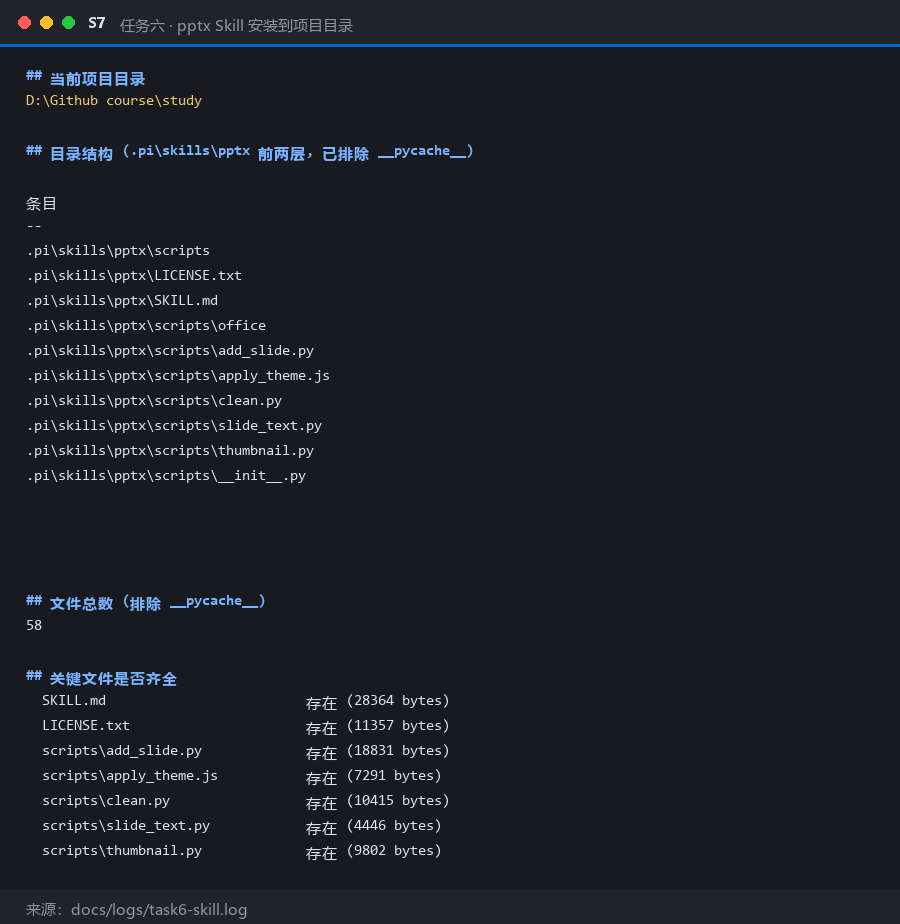
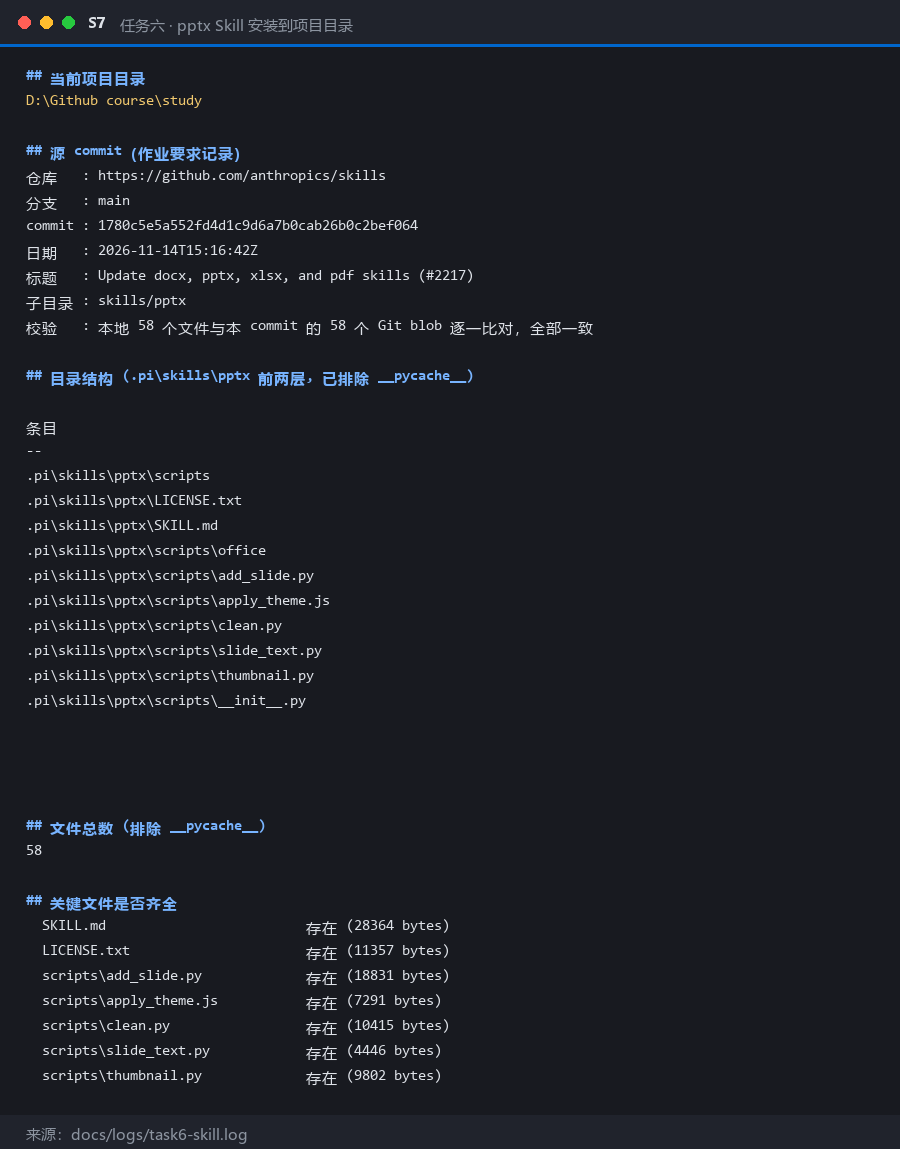
补任务四B 的真实剪贴板粘贴证据（S5a/S5b），补源 commit 记录，修正任务三逐字回复

diff --git a/tools/tui-paste.py b/tools/tui-paste.py
@@ -1,0 +1,146 @@
+"""Capture Pi's real TUI for the clipboard-paste (Alt+V) evidence: S5a / S5b.
+
+Why this exists
+---------------
+The assignment asks for the clipboard route, not the `@file` route:
+"先截取图片内容到剪贴板，不要只复制图片文件的路径" and
+"确认出现图片附件或图片输入提示".
+
+Pi only paints its UI on a real TTY (piping `pi --verbose` yields 0 bytes), so we
+spawn Pi inside a ConPTY (winpty), put the *bitmap* of a PNG onto the Windows
+clipboard (Clipboard.SetImage, NOT a path string), press Alt+V, and rebuild the
+screen from the captured escape stream with pyte.
+
+What Pi does with a clipboard image
+-----------------------------------
+`interactive-mode.js` -> `handleClipboardPaste()`: if the clipboard holds a file
+path it inserts that path; else if it holds an image it writes the bytes to
+`os.tmpdir()/pi-clipboard-<uuid>.png` and inserts *that* path into the editor.
+So the appearance of `pi-clipboard-<uuid>.png` in the input box IS Pi's own
+"image attached" indicator — that is the S5b frame.
+
+Usage
+-----
+    python tui-paste.py <cwd> <png> <out-prefix> <model> [attach|full]
+
+    attach : paste + type prompt, do NOT send  -> S5b
+    full   : paste + type prompt + Enter        -> S5a (includes model reply)
+
+Outputs `<out-prefix>-raw.txt` (raw bytes with escapes) and `<out-prefix>.txt`
+(clean screen text). Render to PNG with `tools/render-tui.py`.
+"""
+import os
+import queue
+import re
+import subprocess
+import sys
+import threading
+import time
+
+from winpty import PtyProcess
+
+PI = os.path.join(os.path.expanduser("~"), ".pi", "agent", "bin", "pi.cmd")
+PROMPT = "请描述图片中的颜色、形状和数字。"
+
+
+def strip_ansi(text: str) -> str:
+    """Drop CSI / OSC escape sequences so the stream is greppable."""
+    text = re.sub(r"\x1b\][^\x07\x1b]*(?:\x07|\x1b\\)", "", text)
+    text = re.sub(r"\x1b\[[0-9;?]*[ -/]*[@-~]", "", text)
+    text = re.sub(r"\x1b[@-Z\\-_]", "", text)
+    return text
+
+
+def put_image_on_clipboard(png: str) -> str:
+    """Put the actual bitmap on the clipboard (GraphicsContext needs STA)."""
+    script = (
+        "Add-Type -AssemblyName System.Windows.Forms;"
+        "Add-Type -AssemblyName System.Drawing;"
+        f"$img=[System.Drawing.Image]::FromFile('{os.path.abspath(png)}');"
+        "[System.Windows.Forms.Clipboard]::SetImage($img);"
+        "$img.Dispose();"
+        "Write-Output ('clipboard ' + [System.Windows.Forms.Clipboard]::ContainsImage())"
+    )
+    r = subprocess.run(["powershell", "-STA", "-NoProfile", "-Command", script],
+                       capture_output=True, text=True)
+    return r.stdout.strip()
+
+
+def capture(cwd: str, png: str, out_prefix: str, model: str,
+            mode: str = "full", cols: int = 150, rows: int = 48) -> None:
+    print("clipboard:", put_image_on_clipboard(png))
+
+    env = dict(os.environ)
+    env["TERM"] = "xterm-256color"
+    env["PYTHONIOENCODING"] = "utf-8"
+    # NOTE: do NOT pass --verbose here; the startup help fills the screen and
+    # covers the input box, which is exactly what we need to see.
+    p = PtyProcess.spawn([PI, "--model", model], cwd=cwd, env=env,
+                         dimensions=(rows, cols))
+
+    q, stop = queue.Queue(), threading.Event()
+
+    def reader():
+        # PtyProcess.read() blocks when idle, so read on a daemon thread and
+        # let the main thread keep control of the timing.
+        while not stop.is_set():
+            try:
+                data = p.read(8192)
+            except Exception:
+                break
+            if data:
+                q.put(data)
+            else:
+                time.sleep(0.05)
+
+    threading.Thread(target=reader, daemon=True).start()
+
+    steps = [(14.0, "\x1bv", "Alt+V (paste clipboard image)"),
+             (18.0, PROMPT, "typed prompt")]
+    if mode == "full":
+        steps.append((21.0, "\r", "Enter (send)"))
+
+    total = 100 if mode == "full" else 30
+    start, idx = time.time(), 0
+    while time.time() - start < total:
+        t = time.time() - start
+        if idx < len(steps) and t > steps[idx][0]:
+            try:
+                p.write(steps[idx][1])
+            except Exception:
+                pass
+            print(f"  {steps[idx][2]} at {t:.1f}s")
+            idx += 1
+        time.sleep(0.1)
+
+    stop.set()
+    time.sleep(0.3)
+    try:
+        p.terminate(force=True)
+    except Exception:
+        pass
+
+    chunks = []
+    while not q.empty():
+        chunks.append(q.get())
+    raw = "".join(chunks)
+
+    raw_path = out_prefix + "-raw.txt"
+    clean_path = out_prefix + ".txt"
+    with open(raw_path, "w", encoding="utf-8", errors="replace") as fh:
+        fh.write(raw)
+    clean = strip_ansi(raw)
+    with open(clean_path, "w", encoding="utf-8", errors="replace") as fh:
+        fh.write(clean)
+
+    print(f"raw={len(raw)} clean={len(clean)} -> {raw_path}")
+    for kw in ["pi-clipboard", "read ", "图片描述"]:
+        print(f"  {kw!r}: {clean.count(kw)}")
+
+
+if __name__ == "__main__":
+    if len(sys.argv) < 5:
+        print(__doc__)
+        sys.exit(1)
+    capture(sys.argv[1], sys.argv[2], sys.argv[3], sys.argv[4],
+            sys.argv[5] if len(sys.argv) > 5 else "full")

diff --git a/docs/ISSUE.md b/docs/ISSUE.md
@@ -23,16 +23,21 @@ https://github.com/xiangsi-max/pi-agent-practice
 | 一 | 本地安装并启动 Pi | ✅ | S1 ｜ `docs/logs/task1-install-and-version.log` |
 | 二 | 配置模型 + 最简单会话 | ✅ | S2 ｜ `docs/logs/task2-model-and-session.log` |
 | 三 | 切换模型 + 思考级别 | ✅ | S3 ｜ `docs/logs/task3-model-and-thinking.log` |
-| 四 | @ 引用代码 + 粘贴小图片 | ✅ | S4、S5 ｜ `docs/logs/task4a-*.log`、`task4b-*.log` |
+| 四 | @ 引用代码 + 粘贴小图片 | ✅ | S4、**S5a/S5b（Alt+V 粘贴）**、S5 ｜ `docs/logs/task4a-*.log`、`task4b-*.log`、`tui-task4b-clipboard-*.raw.txt` |
 | 五 | 安装并试用一个插件 | ✅ | S6、**S6b（加载）** ｜ `docs/logs/task5-*.log` |
-| 六 | PPT Skill（选做） | ✅ 已完成 | S7、S8、**S8b（发现）** ｜ `docs/logs/task6-skill.log` |
+| 六 | PPT Skill（选做） | ✅ 已完成 | S7、S8、**S8b（发现）** ｜ `docs/logs/task6-skill.log`（含源 commit） |
 
 ## 环境信息
 
 - 操作系统：Windows（PowerShell）
 - Node.js：v26.13.1 ／ npm：11.20.0
 - **Pi：1.5.2**（安装路径 `C:\Users\20349\.pi\agent\bin\pi.cmd`）
-- 模型提供商：DeepSeek（`deepseek-flash`、`deepseek-v4-pro`）
+- 模型提供商：
+  - DeepSeek（`deepseek-flash`、`deepseek-v4-pro`）——任务一至三及任务五、六使用
+  - `qwen-token-plan-cn`（`deepseek-v4.1-flash`，支持图片输入）——任务四 B 的视觉测试使用，
+    因 DeepSeek provider 下的 `deepseek-v4-pro` 的 `images` 为 `no`
+  - 该 provider 通过 `~\.pi\agent\models.json` 仅覆盖 `baseUrl` 指向兼容端点，
+    模型清单与认证方式不变；该文件含 provider 地址、**不含任何密钥**，故未收入仓库
 
 ## 各任务说明
 
@@ -98,8 +103,11 @@ high       high         deepseek-flash
 
 > 踩坑：`@文件` 必须作为独立参数，与提示词写在同一字符串里会报 `File not found`。
 
-**B. 粘贴小图片**：自制 200×200 蓝色方块 + 白色数字 `7`，切到支持视觉的 `deepseek-flash`
-（`deepseek-v4-pro` 的 `images` 为 `no`），模型正确识别出「白底、蓝色正方形、数字 7」。
+**B. 粘贴小图片**：自制 200×200 蓝色方块 + 白色数字 `7`。按作业要求把**图片内容**放入剪贴板
+（`Clipboard.SetImage`，不是复制文件路径），在 Pi 输入区按 **Alt+V**，输入框随即出现 Pi 生成的
+附件路径 `C:\Users\20349\AppData\Local\Temp\pi-clipboard-<uuid>.png`（这就是「已附加图片的提示」，见 S5b），
+再补提示词发送，模型先 `read` 该附件再作答，正确识别出「白底 / 深蓝色正方形 / 白色数字 7」（见 S5a）。
+另用 `@seven.png` 直接引用做了对照（S5），两条输入路径都验证过。
 输入原图见仓库 `pi-test/seven.png`，可对照核对识别结果。
 
 ### 任务五 安装并试用插件
@@ -112,8 +120,14 @@ high       high         deepseek-flash
 
 ### 任务六 PPT Skill（选做，已完成）
 
+- **源 commit（作业要求记录）**：`anthropics/skills` 的 `main` 分支
+  **`1780c5e5a552fd4d1c9d6a7b0cab26b0c2bef064`**（`2026-11-14T15:16:42Z`，
+  `Update docx, pptx, xlsx, and pdf skills (#2217)`），子目录 `skills/pptx`
 - 安装到 `D:\Github course\study\.pi\skills\pptx`，共 **58 个文件**，保留
   `SKILL.md`、`LICENSE.txt` 与 `scripts/`
+- 已用 Git blob SHA-1 逐文件比对：本地 58 个文件与该 commit 的 58 个 blob 全部一致。
+  作业示例记录的 `2c5958ecac7cee2b583967a2c4981d0f4a75c579`（56 个文件）是同一目录的较早版本，
+  本机装的是更新的 main，故此处如实记录 main 的 SHA
 - 重启后在启动界面 `[Skills]` 区域的 `project` 分组下出现
   `D:\Github course\study\.pi\skills\pptx\SKILL.md`（见 S8b 真实 TUI 截图）
 - 在 `study` 目录执行 `/skill:pptx 请说明这个 Skill 的名称、用途和所在目录，`
@@ -127,6 +141,10 @@ S1–S8 由 `tools/render-screenshots.py` 渲染 `docs/logs/` 中的真实终端
 每张图页脚标注来源日志文件，可逐条回查；S6b、S8b 是 Pi 的**真实 TUI 画面**
 （`pywinpty` 开伪终端运行 `pi --verbose`，`pyte` 重建屏幕），原始字节流存于
 `docs/logs/tui-capture-*.raw.txt`。
+
+S5a、S5b 同样是**真实 TUI 画面**（`tools/tui-paste.py` 把图片放进剪贴板后按 Alt+V 捕获），
+分别对应「已附加图片的提示（未发送）」与「发送后的完整回复」，原始字节流存于
+`docs/logs/tui-task4b-clipboard-*.raw.txt`。
 
 > 说明：Pi 只在 TTY 下绘制界面，管道里执行 `pi --verbose` 输出 0 字节，
 > 因此「插件/Skill 是否真的加载」必须从真实伪终端的启动界面读取，不能靠安装命令的输出来代替。
